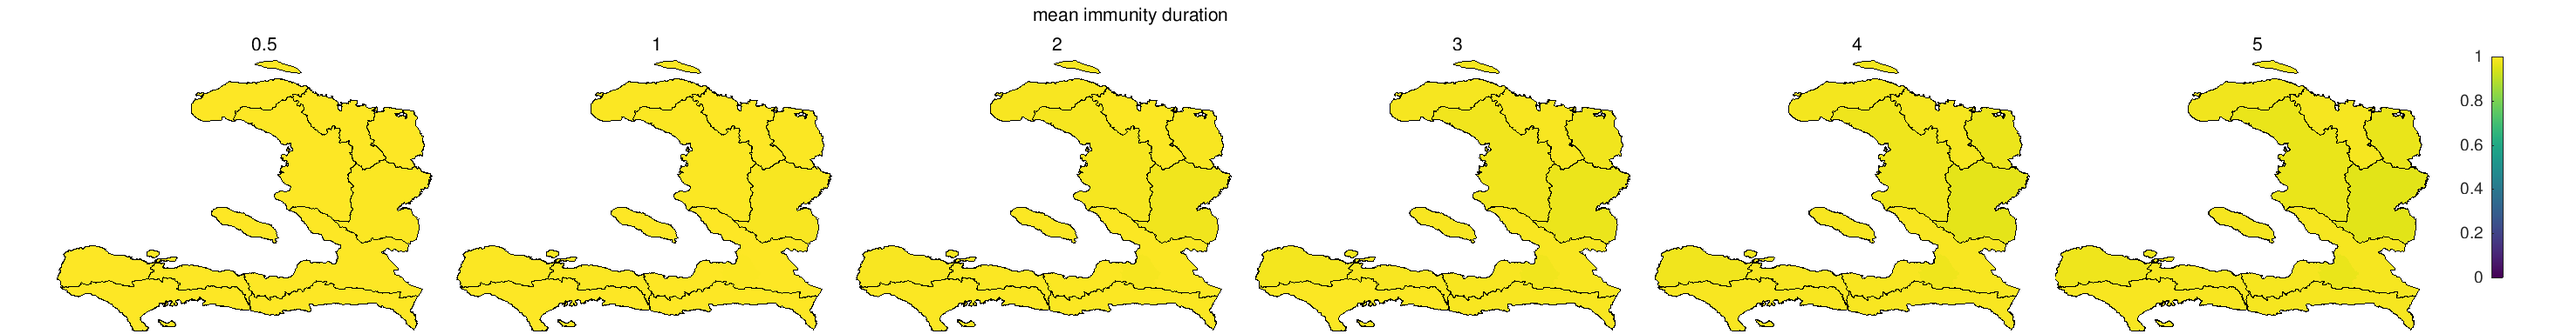
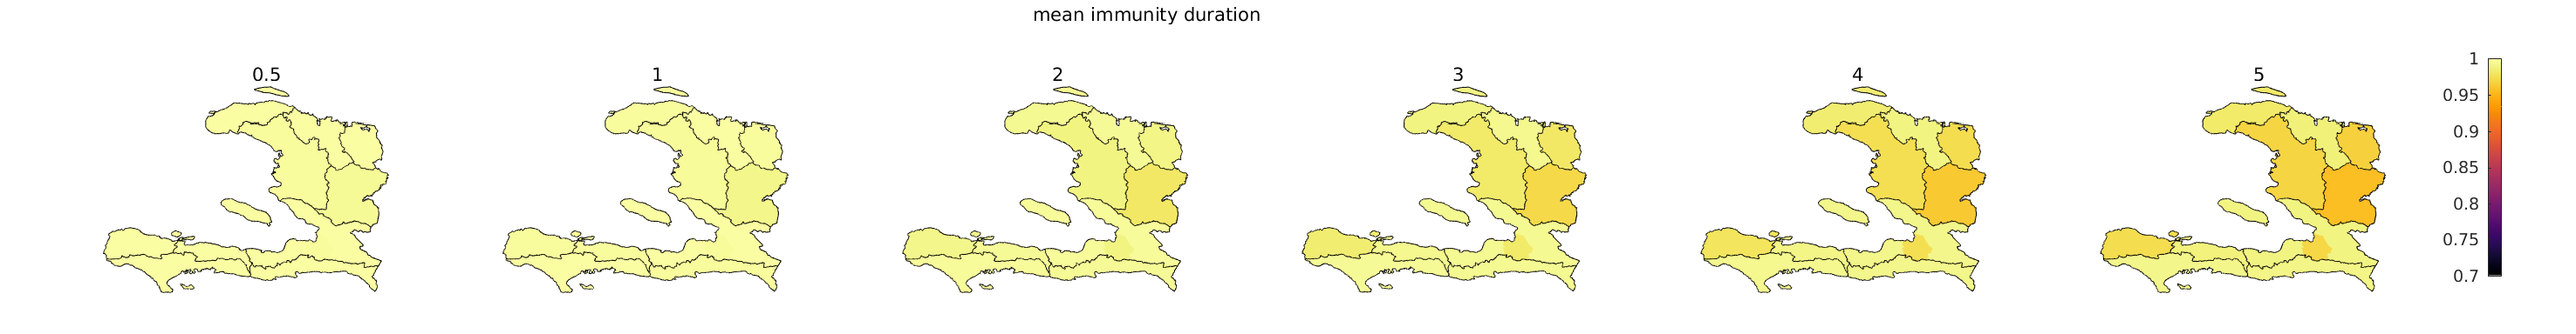
minor modifications and verification

diff --git a/run.m b/run.m
@@ -37,7 +37,7 @@ fig.Units = 'centimeters';
 fig.Position = [0 0 50 6.5];
 fig.PaperPosition = [0 0 50 6.5];
 
-cscale=[.7,1];
+cscale=[0.7,1];
 
 for i=1:length(rho)
     
@@ -65,22 +65,20 @@ for i=1:length(rho)
 
     h=subaxis(1,length(rho),i,'Spacing',0,'Padding',0,'Margin',0,'MarginTop',0.02,'MarginLeft',0.02,'MarginRight',0.05);
     
-    plotAreasShape(S(end,:)./H',names,'dept+pap',cscale,false,h)
+    plotAreasShape(S(end,:)./H',names,'dept+pap',cscale,false,h,inferno)
     text(0.5,0.88,num2str(imdur(i)),'Units','normalized')        
 end
 
 ax=subplot('position',[0.95,0.1,0.03,0.8],'visible','off');
 caxis(cscale)
-colormap(viridis)
+colormap(inferno)
 colorbar(ax,'location','east')
 
 ax=axes('position',[0,0,1,1],'visible','off');
 text(0.4,0.95,'mean immunity duration','Units','normalized')
 
 % save
-
 print -dpng result/result_scenario1.png
-
 
 %% second scenario: symptomatics and asymptomatics have the same immunity duration
 
@@ -123,7 +121,7 @@ for i=1:length(rho)
         % plot
 
         h=subaxis(length(sigma),length(rho),i+(j-1)*length(rho),'Spacing',0,'Padding',0,'Margin',0,'MarginTop',0.02,'MarginLeft',0.02,'MarginRight',0.05);
-        plotAreasShape(S(end,:)./H',names,'dept+pap',cscale,false,h)
+        plotAreasShape(S(end,:)./H',names,'dept+pap',cscale,false,h,viridis)
         if j==1
             text(0.5,1.0,num2str(imdur(i)),'Units','normalized')
         end
@@ -193,7 +191,7 @@ for i=1:length(rho)
         % plot
 
         h=subaxis(length(sigma),length(rho),i+(j-1)*length(rho),'Spacing',0,'Padding',0,'Margin',0,'MarginTop',0.02,'MarginLeft',0.02,'MarginRight',0.05);
-        plotAreasShape(S(end,:)./H',names,'dept+pap',cscale,false,h)
+        plotAreasShape(S(end,:)./H',names,'dept+pap',cscale,false,h,viridis)
         if j==1
             text(0.5,1.0,num2str(imdur(i)),'Units','normalized')
         end

diff --git a/plotAreasShape.m b/plotAreasShape.m
@@ -1,4 +1,4 @@
-function plotAreasShape(data,names,aggregation,cscale,cbar,ax)
+function plotAreasShape(data,names,aggregation,cscale,cbar,ax,cmp)
  
     if nargin==3
         cscale=[min(data),max(data)];
@@ -11,6 +11,10 @@ function plotAreasShape(data,names,aggregation,cscale,cbar,ax)
     if nargin<5
         cbar=false;
     end
+    
+    if nargin<6
+        cmp=viridis;
+    end    
 
     shapefile='./shapefiles/Haiti_Communes_140_topology_corrected_3.shp';
     s=shaperead(shapefile);
@@ -47,7 +51,7 @@ function plotAreasShape(data,names,aggregation,cscale,cbar,ax)
         s(i).data=data(idx(i));
     end
     
-    densityColors = makesymbolspec('Polygon', {'data',cscale, 'FaceColor', viridis});
+    densityColors = makesymbolspec('Polygon', {'data',cscale, 'FaceColor', cmp});
 
     mapshow(ax ,s, 'DisplayType', 'polygon','SymbolSpec', densityColors,'LineStyle','none')
     hold on
@@ -57,7 +61,7 @@ function plotAreasShape(data,names,aggregation,cscale,cbar,ax)
     
     if cbar
         caxis(cscale)
-        colormap(viridis)
+        colormap(cmp)
         colorbar
     end
     
